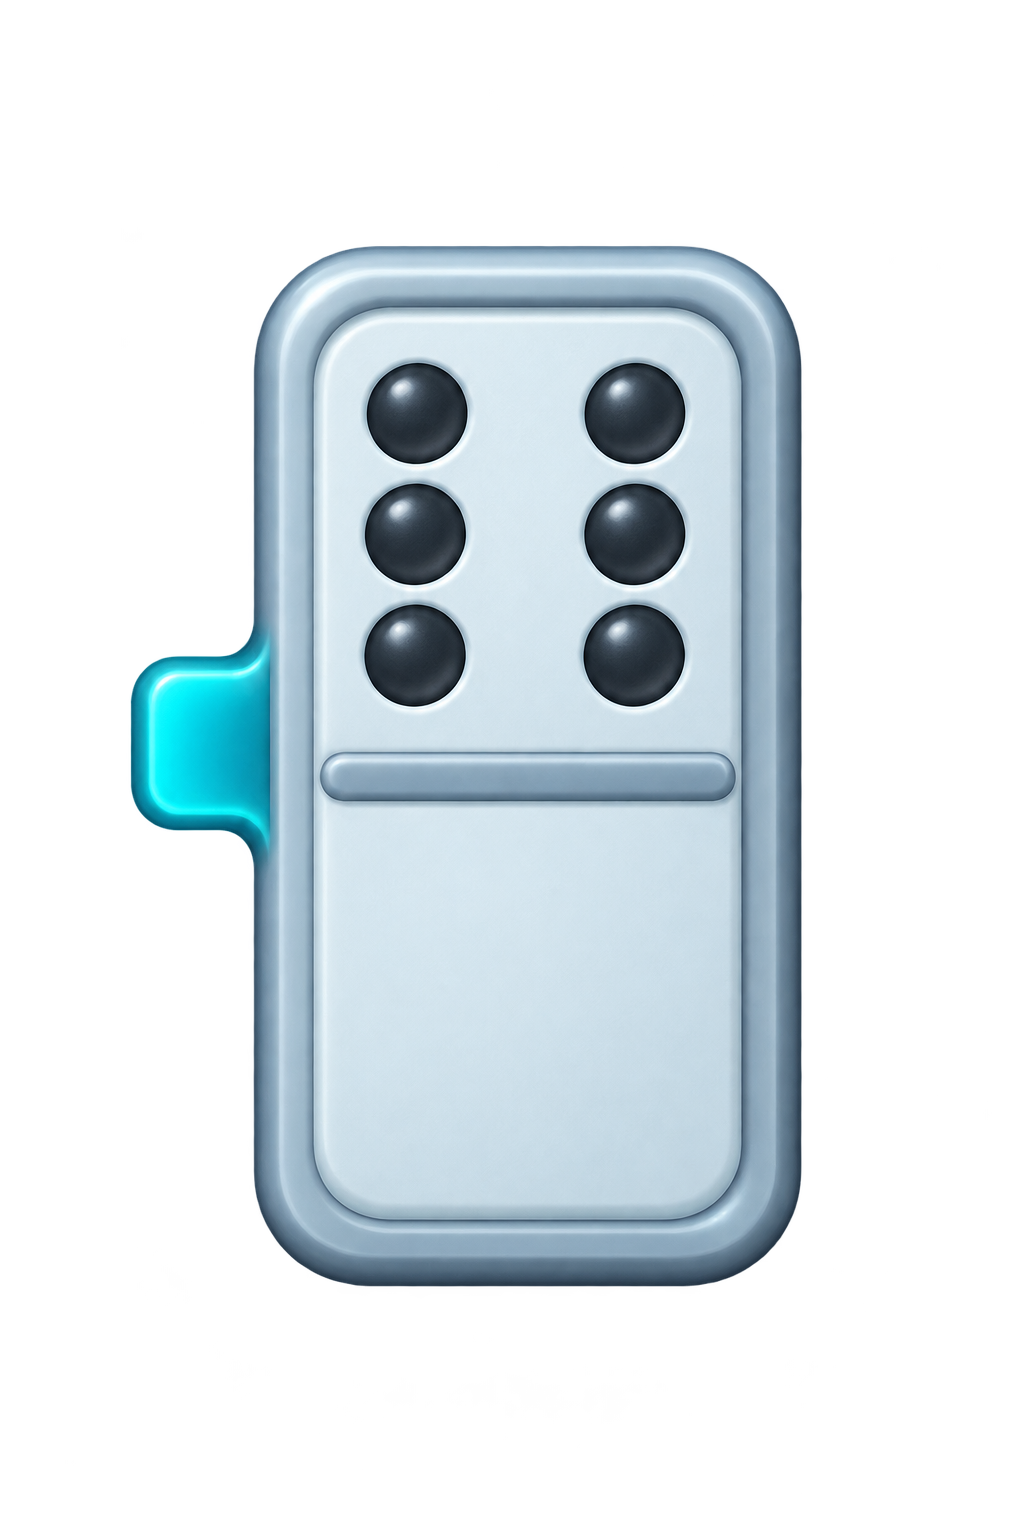
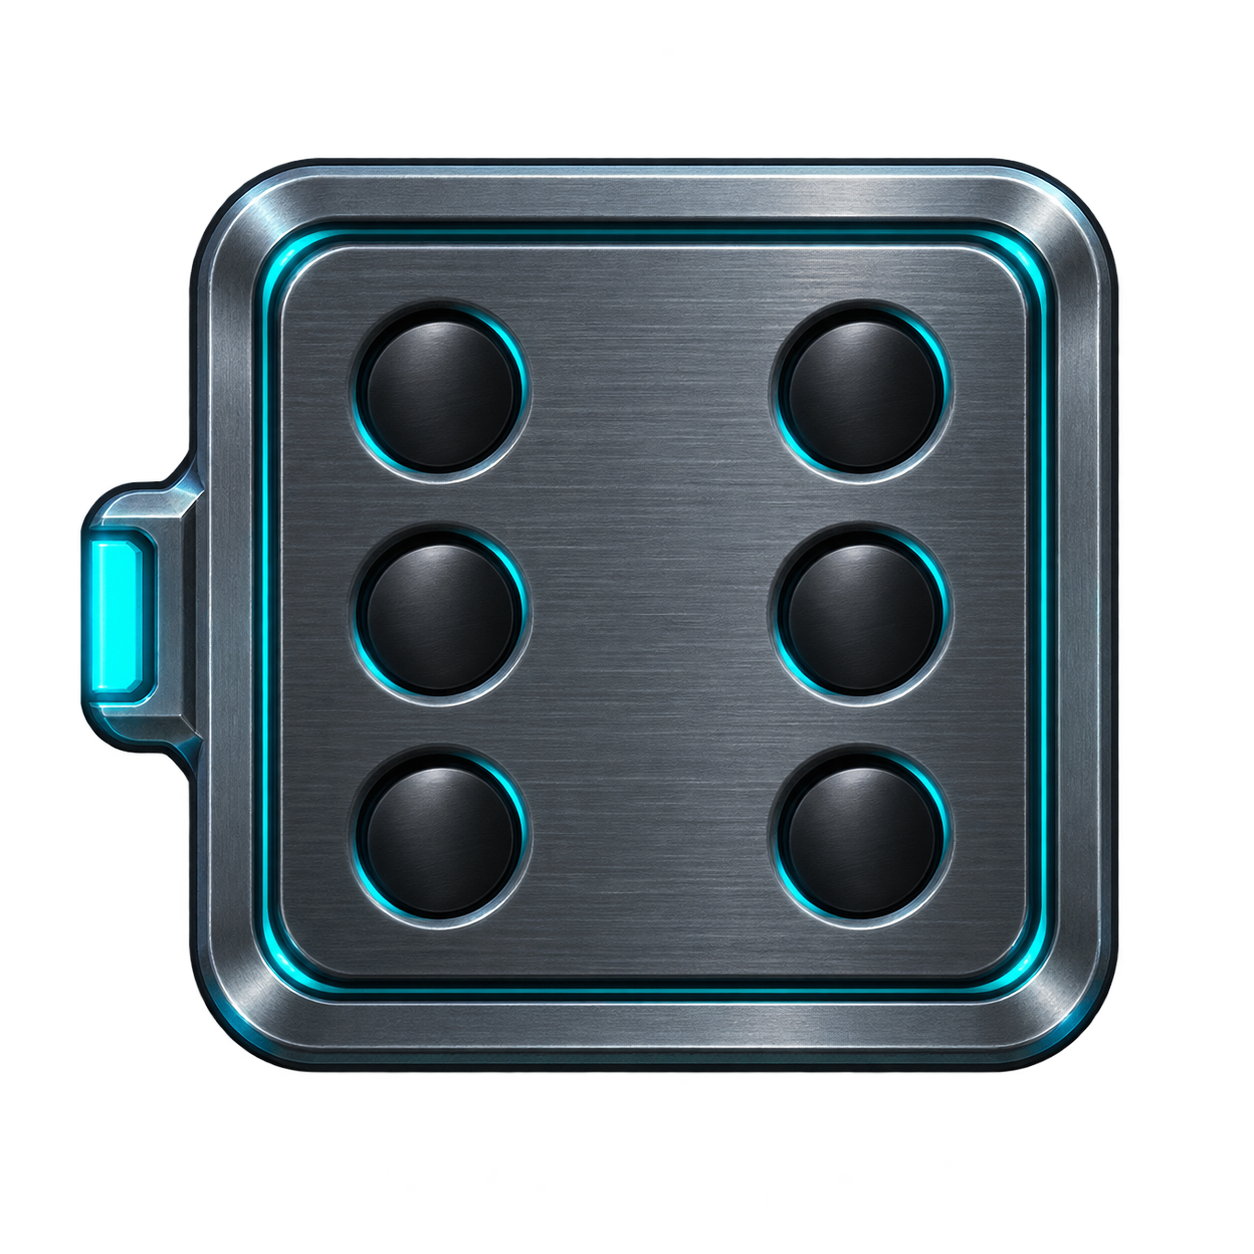
fix: refine single-cell board ports

diff --git a/app/src/main/kotlin/com/aela/mainboardoverride/ui/MainboardApp.kt b/app/src/main/kotlin/com/aela/mainboardoverride/ui/MainboardApp.kt
@@ -441,9 +441,9 @@ internal fun Board(
             else if (maxHeight < 250.dp) 12.dp else 20.dp
         val cell = minOf((maxWidth - margin * 2) / (board.width + 2), (maxHeight - margin * 2) / board.height).coerceAtLeast(0.dp)
         Box(Modifier.width(cell * (board.width + 2)).height(cell * board.height)) {
-            PortSprite(R.drawable.board_port_s0_v1, "S0", board.start.y, cell,
+            PortSprite(R.drawable.board_port_s0_v1, "S0", board.start.y, cell, start = true,
                 modifier = Modifier.testTag("board-port-s0"))
-            PortSprite(R.drawable.board_port_x6_v1, "X6", board.extraction.y, cell,
+            PortSprite(R.drawable.board_port_x6_v1, "X6", board.extraction.y, cell, start = false,
                 modifier = Modifier.offset(x = cell * (board.width + 1)).testTag("board-port-x6"))
             Box(Modifier.offset(x = cell).width(cell * board.width).height(cell * board.height)
                 .background(Color.Transparent)
@@ -535,7 +535,7 @@ internal fun Board(
 }
 
 @Composable
-private fun PortSprite(resource: Int, label: String, row: Int, size: Dp, modifier: Modifier = Modifier) {
+private fun PortSprite(resource: Int, label: String, row: Int, size: Dp, start: Boolean, modifier: Modifier = Modifier) {
     Box(
         modifier.offset(y = size * row).width(size).height(size),
         contentAlignment = Alignment.BottomCenter,
@@ -551,8 +551,8 @@ private fun PortSprite(resource: Int, label: String, row: Int, size: Dp, modifie
             fontFamily = FontFamily.Monospace,
             fontWeight = FontWeight.Black,
             fontSize = (size.value * .18f).coerceAtLeast(7f).sp,
-            modifier = Modifier.background(Void.copy(alpha = .9f), RoundedCornerShape(3.dp))
-                .padding(horizontal = 3.dp, vertical = 1.dp),
+            modifier = Modifier.align(if (start) Alignment.CenterStart else Alignment.CenterEnd)
+                .offset(x = if (start) -size * .24f else size * .24f),
         )
     }
 }

diff --git a/assets/board/port-x6-prompt.md b/assets/board/port-x6-prompt.md
@@ -1,3 +1,3 @@
 Built-in image_gen, 2026-09-14. Generated for this project; original preserved in originals/.
 
-Use case: stylized-concept. Asset type: transparent raster board-port sprite for a mobile domino puzzle game. Image 1 and Image 2 from the existing domino set were used as style references. Primary request: one compact single-block EXTRACTION port that looks like a special one-cell domino tile, with the same pale ceramic face, rounded bevel, inset panel and black circular pip treatment. It represents value six with exactly six pips in the standard domino arrangement. Add a small cyan connector tab on the left edge for the last board cell. Front-facing portrait block, readable at one board cell, genuine transparent background, no text or numbers, no large hardware module, no watermark or extra objects.
+Use case: stylized-concept. Asset type: transparent raster one-cell board-port sprite for a mobile domino puzzle game. Primary request: one compact square EXTRACTION port block matching the gray gunmetal plates of the board, with a brushed-metal face, rounded bevel, inset rim and cyan edge lighting. It represents value six with exactly six dark pips in the standard domino arrangement inside the single square. Add a short cyan connector tab on the left edge for the last board cell. Square one-cell block, genuine transparent background, no text or letters in the artwork; X6 is rendered beside it by the UI. No full domino, no large hardware module, no watermark or extra objects.

diff --git a/assets/board/port-s0-prompt.md b/assets/board/port-s0-prompt.md
@@ -1,3 +1,3 @@
 Built-in image_gen, 2026-09-14. Generated for this project; original preserved in originals/.
 
-Use case: stylized-concept. Asset type: transparent raster board-port sprite for a mobile domino puzzle game. Image 1 and Image 2 from the existing domino set were used as style references. Primary request: one compact single-block START port that looks like a special one-cell domino tile, with the same pale ceramic face, rounded bevel, inset panel and pip treatment. It represents value zero with an empty central pip field and a subtle cyan energy ring. Add a small cyan connector tab on the right edge for the first board cell. Front-facing portrait block, readable at one board cell, genuine transparent background, no text or numbers, no large hardware module, no watermark or extra objects.
+Use case: stylized-concept. Asset type: transparent raster one-cell board-port sprite for a mobile domino puzzle game. Primary request: one compact square START port block matching the gray gunmetal plates of the board, with a brushed-metal face, rounded bevel, inset rim and cyan edge lighting. It represents the output value zero with no pips, only a small cyan ring. Add a short cyan connector tab on the right edge for the first board cell. Square one-cell block, genuine transparent background, no text or letters in the artwork; S0 is rendered beside it by the UI. No full domino, no large hardware module, no watermark or extra objects.
